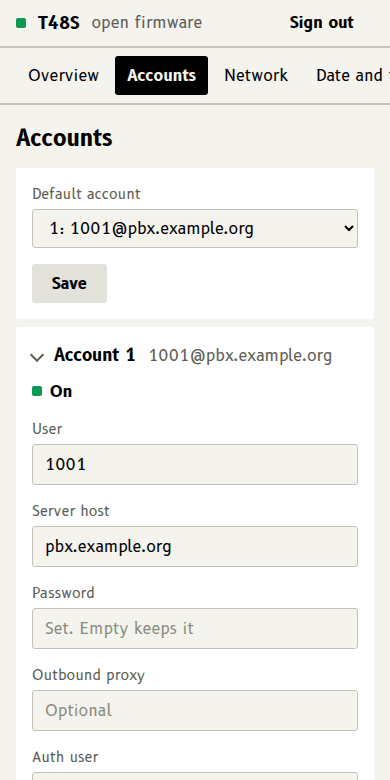
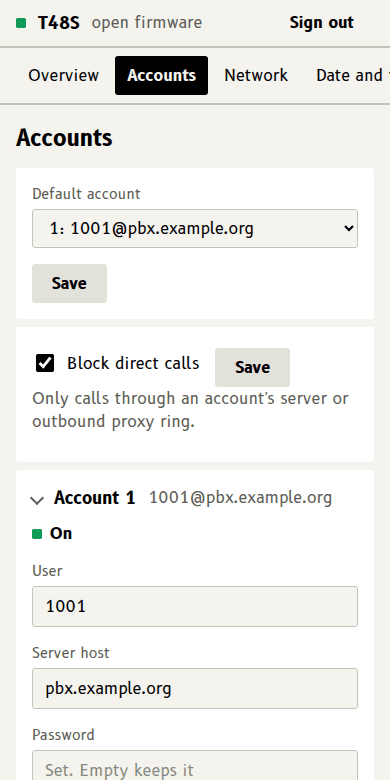
Forwarding test: the phone follows a 302; web pictures
The phone-test now also has carol forward a call the phone makes (far.py forward), and the phone follows it to bob. Accounts pictures of the web setup page redone with the new fields. Issue #77.

diff --git a/webconfig/pages.c b/webconfig/pages.c
@@ -320,7 +320,7 @@ static void account_sound(struct req *r, int n)
 {
     form_begin(r, "/accounts/ringtone", "enctype='multipart/form-data' class='sub'");
     H("<input type='hidden' name='n' value='%d'><label class='field'><span>Custom ringtone</span>"
-      "<input type='file' name='sound' accept='.wav,audio/wav,audio/x-wav' required><small>WAV, up to 500 KB. Played for 10 s at most.</small></label>"
+      "<input type='file' name='sound' accept='.wav,audio/wav,audio/x-wav' required><small>WAV, up to 500 KB, 10 s at most</small></label>"
       "<button type='submit'>Upload</button></form>", n);
     if (custom_ringtone(n)) {
         form_begin(r, "/accounts/ringtone-remove", "class='inline'");
@@ -347,7 +347,7 @@ static void page_accounts(struct req *r)
     form_begin(r, "/accounts/block", "class='row'");
     H("<label class='check'><input type='checkbox' name='block_direct' value='on'%r> Block direct calls</label>"
       "<button type='submit'>Save</button></form>"
-      "<p class='dim'>Only calls through an account's server or outbound proxy ring. Off for calls straight to this phone's address.</p></div>",
+      "<p class='dim'>Only calls through an account's server or outbound proxy ring.</p></div>",
       strcmp(val("phone", "block_direct", "on"), "off") ? " checked" : "");
     for (int n = 1; n <= MAX_ACCTS; n++) {
         const char *f = sip_file(n);

diff --git a/sip/test/far.py b/sip/test/far.py
@@ -8,6 +8,7 @@ simulator script's `run` lines.
   far.py SOCKET waitcall STATE [SECS]    wait until it has a call in STATE (incoming, outgoing,
                                          ringing, established) or, for STATE none, no call at all
   far.py SOCKET accept                   wait for an incoming call, then answer it
+  far.py SOCKET forward TARGET           wait for an incoming call, then send it on with 302 (t48ctrl's redirect)
   far.py SOCKET log FILE                 write every event to FILE, one JSON object a line, until killed
   far.py waitlog FILE REGEX [SECS]       wait until a line of FILE matches
 """
@@ -106,6 +107,14 @@ def main():
         if not waitcall(c, "incoming", 5):
             return 1
         return 0 if c.cmd("accept")["ok"] else 1
+    if a[1] == "forward":
+        if not waitcall(c, "incoming", 5):
+            return 1
+        ids = [e["id"] for e in c.events if e.get("sync") and e.get("type") == "CALL_INCOMING"]
+        r = c.cmd("redirect", "%s %s" % (ids[-1], a[2]))
+        if not r["ok"]:
+            print(f"far.py: redirect: {r['data'].strip()}", file=sys.stderr)
+        return 0 if r["ok"] else 1
     if a[1] == "log":
         with open(a[2], "a", buffering=1) as f:
             while True:
